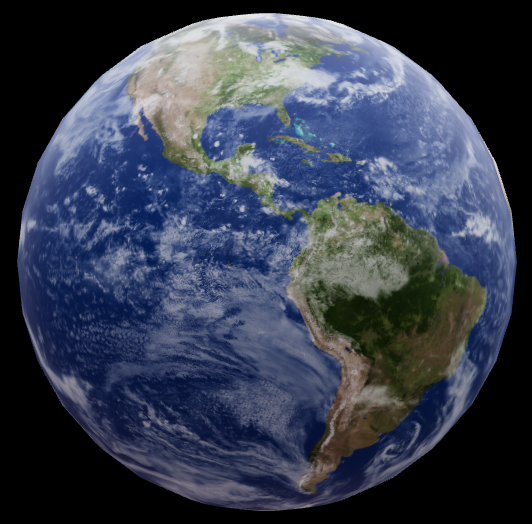
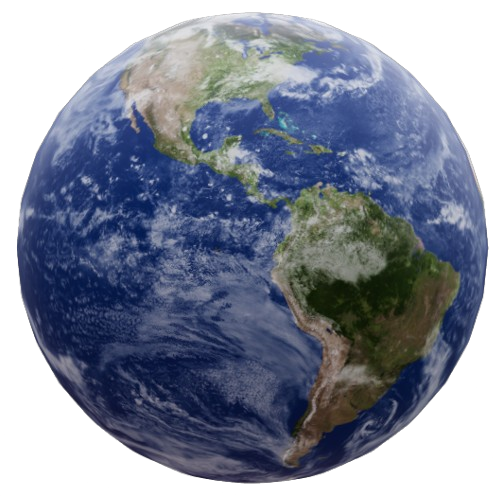
Add small fix

diff --git a/src/components/Hero.jsx b/src/components/Hero.jsx
@@ -35,25 +35,27 @@ function Hero() {
         </div>
 
         {/* Right Side: Globe */}
-        <div className="relative lg:h-[35rem] md:h-[30rem] h-[20rem] w-full">
-          <Suspense fallback={<div className="text-white">Loading...</div>}>
+        <div className="relative lg:h-[35rem] md:h-[30rem] h-[20rem] w-full flex justify-center items-center">
+          {/* <Suspense fallback={<div className="text-white">Loading...</div>}> */}
             {/* <World data={sampleArcs} globeConfig={globeConfig} /> */}
             <model-viewer src="https://cdn.glitch.global/7eb9227c-30fb-4845-b75b-c3acd4d4e0be/Earth.glb?v=1735932843428"
                   ios-src="https://cdn.glitch.global/7eb9227c-30fb-4845-b75b-c3acd4d4e0be/Earth.usdz?v=1735938002984"
                   poster="/assets/01EarthModel.png"
                   alt="A 3D model of an Earth"
-                  style = {{width: "100%", height: "100%"}}
+                  style = {{width: "80%", height: "80%"}}
                   camera-controls
                   auto-rotate ar
                   disable-zoom
                   disable-pan
+                  loading="eager"
+                  ar-modes="scene-viewer webxr quick-look"
                   exposure="0.8"
                   shadow-intensity="1"
                   ref={(ref) => {
                     modelRef.current = ref;
-                  }}>
-            </model-viewer>
-          </Suspense>
+                  }}/>
+            
+          {/* </Suspense> */}
           <div className="absolute top-0 md:hidden h-[16rem] w-full bg-transparent"/>
 
         </div>
